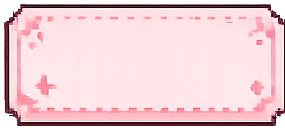
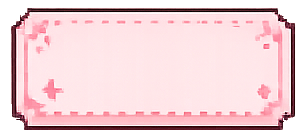
カメラ/パネル素材の切り抜きガタつきを修正（高倍率で目視検証）
- 問題: フラッドフィルの取りこぼしでカメラ円周に破片が散乱、
  9スライスのpanel-sparkleは右ふちが1pxに潰れて荒れていた
- カメラ: 素材の円環リングは幾何マスクでクリーンに抽出、
  ユニコーン/リボンは素材の暗いグラデ隅と判別不能なため断念し、
  クリーンなドットのリボンを6時に配置（角はメイ自身にあるため省略）
- 顔は円環の内径に合わせて配置し直し（枠いっぱい）
- panel-sparkleを右に余白を足して切り直し、四辺対称の9スライスに
- 未使用のcam-frame/horn.png等を整理

Claude-Session: https://claude.ai/code/session_01F2TdwQ4D2TsqAqFXHXY7Mn

diff --git a/style.css b/style.css
@@ -93,14 +93,19 @@ body {
 .cam-frame.cam-band { width: 104px; }
 .cam-inner { position: relative; width: 100%; aspect-ratio: 568 / 660; }
 .cam-circle {
-  position: absolute; left: 8.1%; top: 5.9%; width: 83.8%; aspect-ratio: 1 / 1;
-  border-radius: 50%; overflow: hidden; background: var(--panel); z-index: 1;
+  position: absolute; left: 9.2%; top: 6.8%; width: 81.7%; aspect-ratio: 1 / 1;
+  border-radius: 50%; overflow: hidden; background: var(--bg); z-index: 1;
 }
 .cam-face { width: 100%; height: 100%; background-position: 0% 0%; }
 .cam-ovl {
   position: absolute; inset: 0; z-index: 2; pointer-events: none;
-  background: url("assets/ui/cam-frame.png") center / contain no-repeat;
-  image-rendering: pixelated;
+  background: url("assets/ui/cam-ring.png") center / contain no-repeat;
+}
+/* 6時リボン（ドット） */
+.cam-inner::after {
+  content: ""; position: absolute; top: 75%; left: 50%; transform: translateX(-50%);
+  width: 28%; aspect-ratio: 17 / 10; z-index: 3;
+  background: url("assets/deco/bow.png") center / contain no-repeat; image-rendering: pixelated;
 }
 .cam-name { display: block; text-align: center; margin-top: 4px; font-size: 14px; color: var(--crim); letter-spacing: 1px; }
 
@@ -166,12 +171,13 @@ body {
 /* ===== 横長パネルをUI素材の枠(9スライス)に置換 ===== */
 .game-header, .speech-panel, .progress {
   background: transparent;
-  border: 12px solid transparent;
-  border-image: url("assets/ui/panel-sparkle.png") 9 fill / 12px / 0 round;
+  border-style: solid; border-color: transparent;
+  border-width: 12px 9px 14px 17px;
+  border-image: url("assets/ui/panel-sparkle.png") 12 9 14 17 fill / 12px 9px 14px 17px / 0 round;
   box-shadow: none;
 }
-.game-header { padding: 2px 6px; }
-.speech-panel, .progress { padding: 4px 8px; }
+.game-header { padding: 1px 4px; }
+.speech-panel, .progress { padding: 3px 6px; }
 
 /* ===== ゲーム：メインパネル ===== */
 .main-panel {
